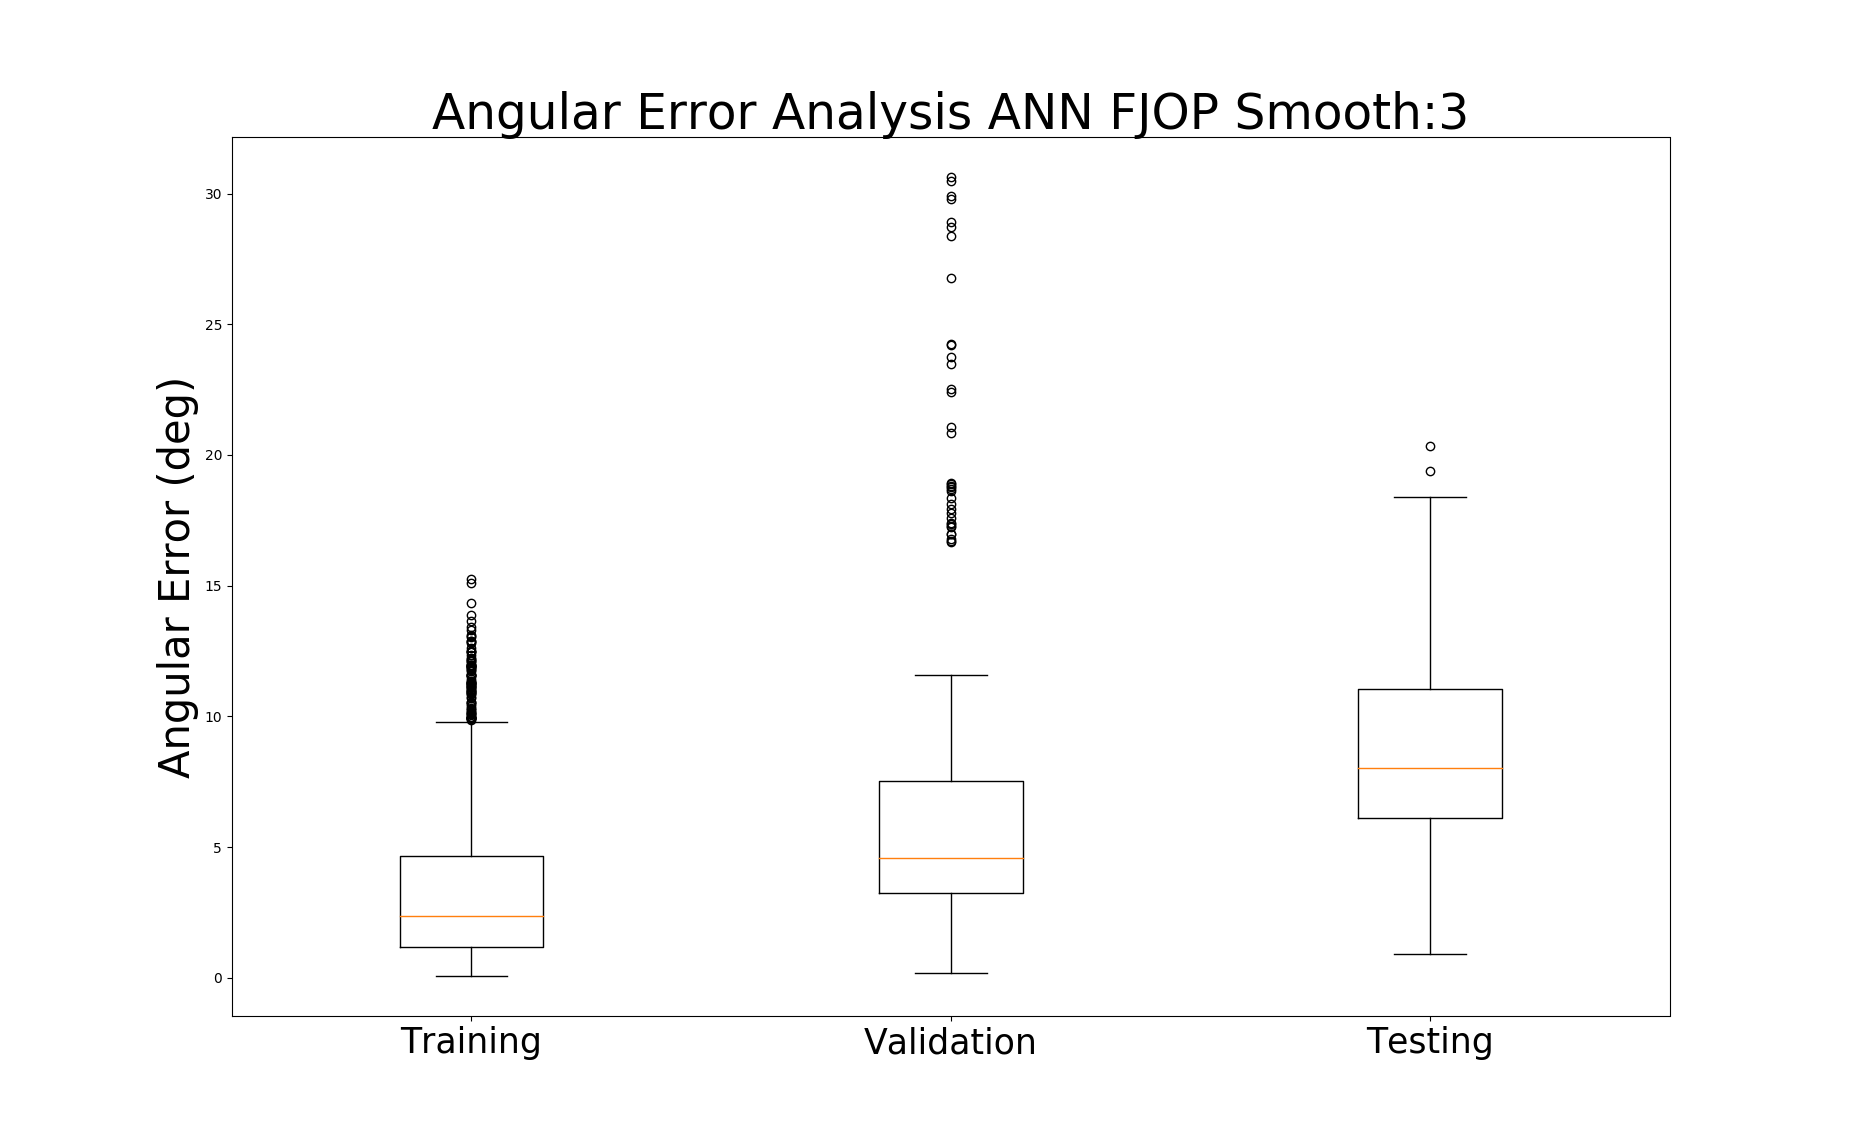
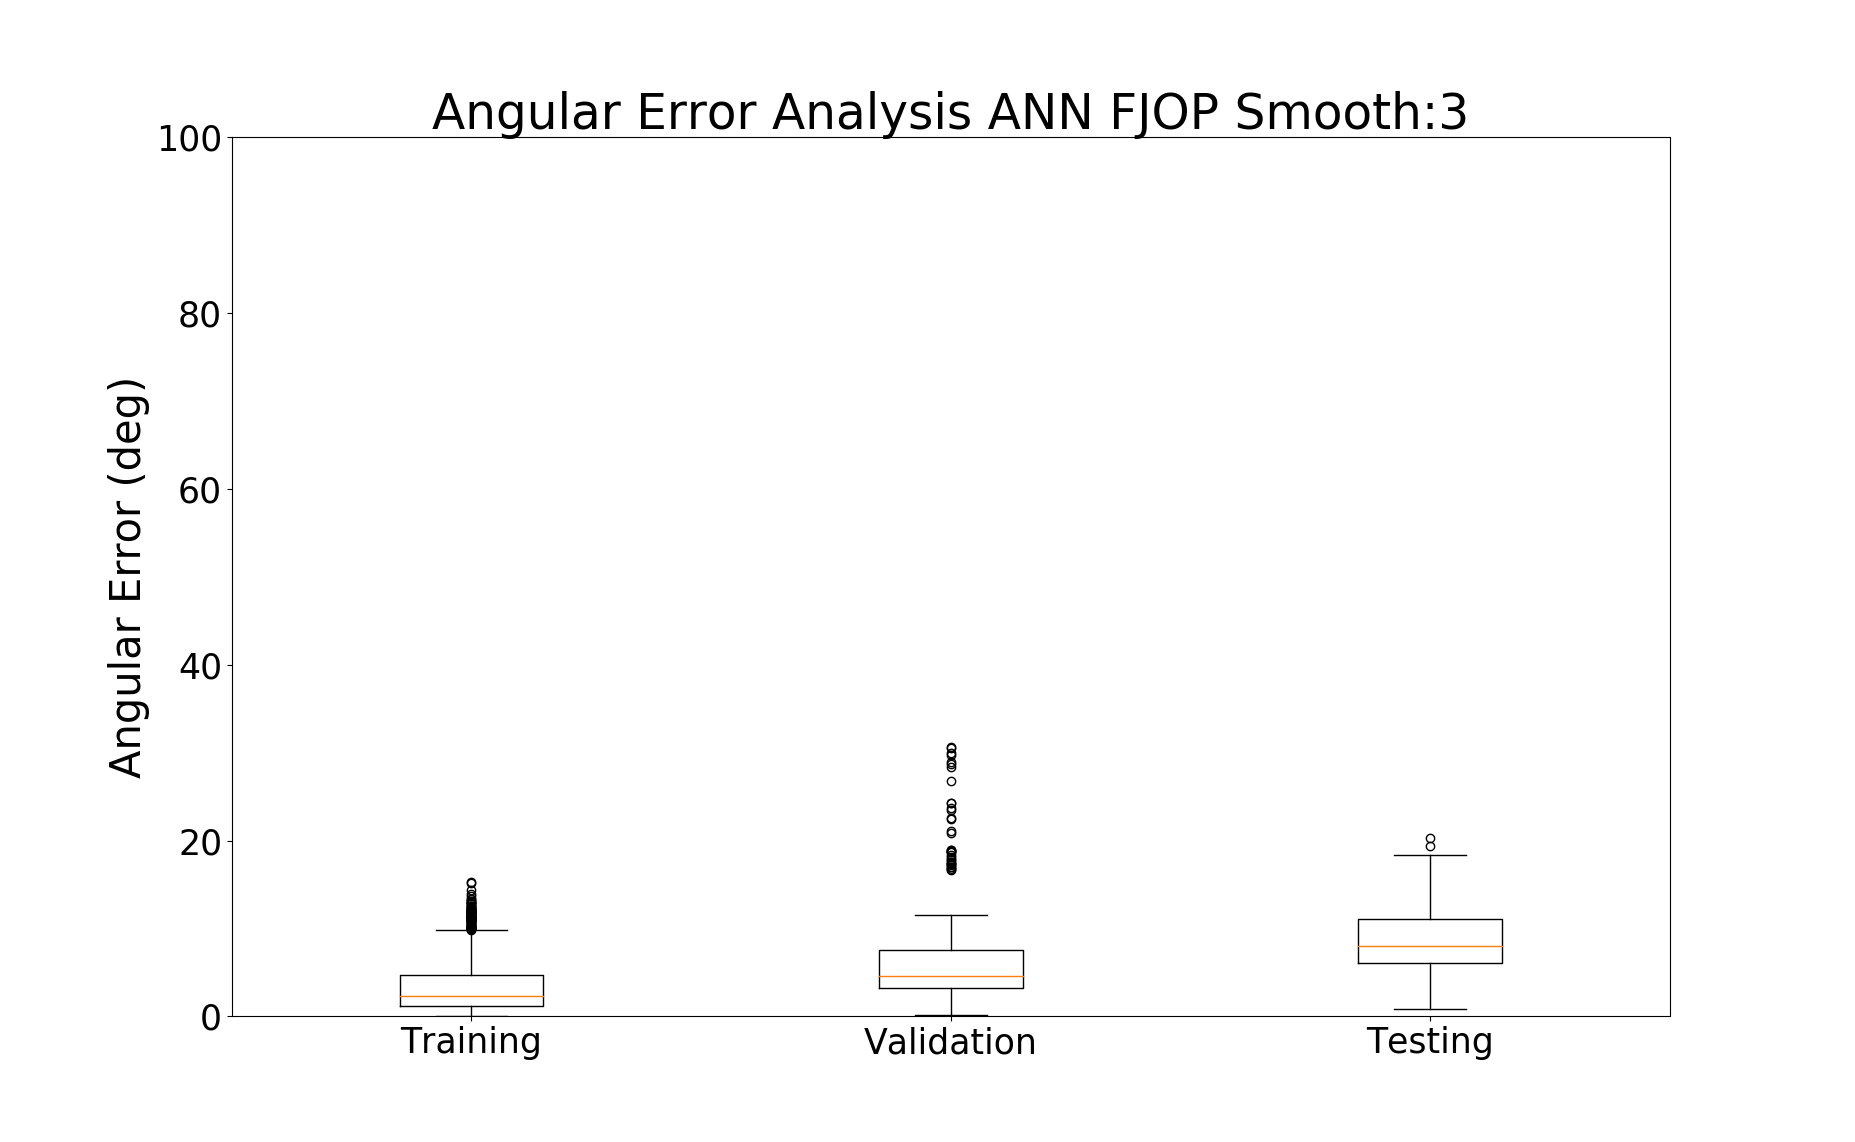
Corrected the axis limits of the plots

diff --git a/apple_picking.py b/apple_picking.py
@@ -274,6 +274,8 @@ class ApplePicking(object):
         # plt.xlabel("Data", fontsize=25)
         plt.ylabel("Angular Error (deg)", fontsize=30)
         plt.xticks(size=25)
+        plt.yticks(size=25)
+        plt.ylim([0.0, 100.0])
         plt.show()
 
     def train_network(self, val_split, n_epoch=1000, clear_tmp=True):
@@ -421,6 +423,8 @@ if __name__ == '__main__':
         # plt.xlabel("Data", fontsize=25)
         plt.ylabel("Angular Error (deg)", fontsize=30)
         plt.xticks(size=25)
+        plt.yticks(size=25)
+        plt.ylim([0.0, 100.0])
         plt.show()
         # plt.savefig(output_base.format(data_label.lower(), label.lower()))
         
